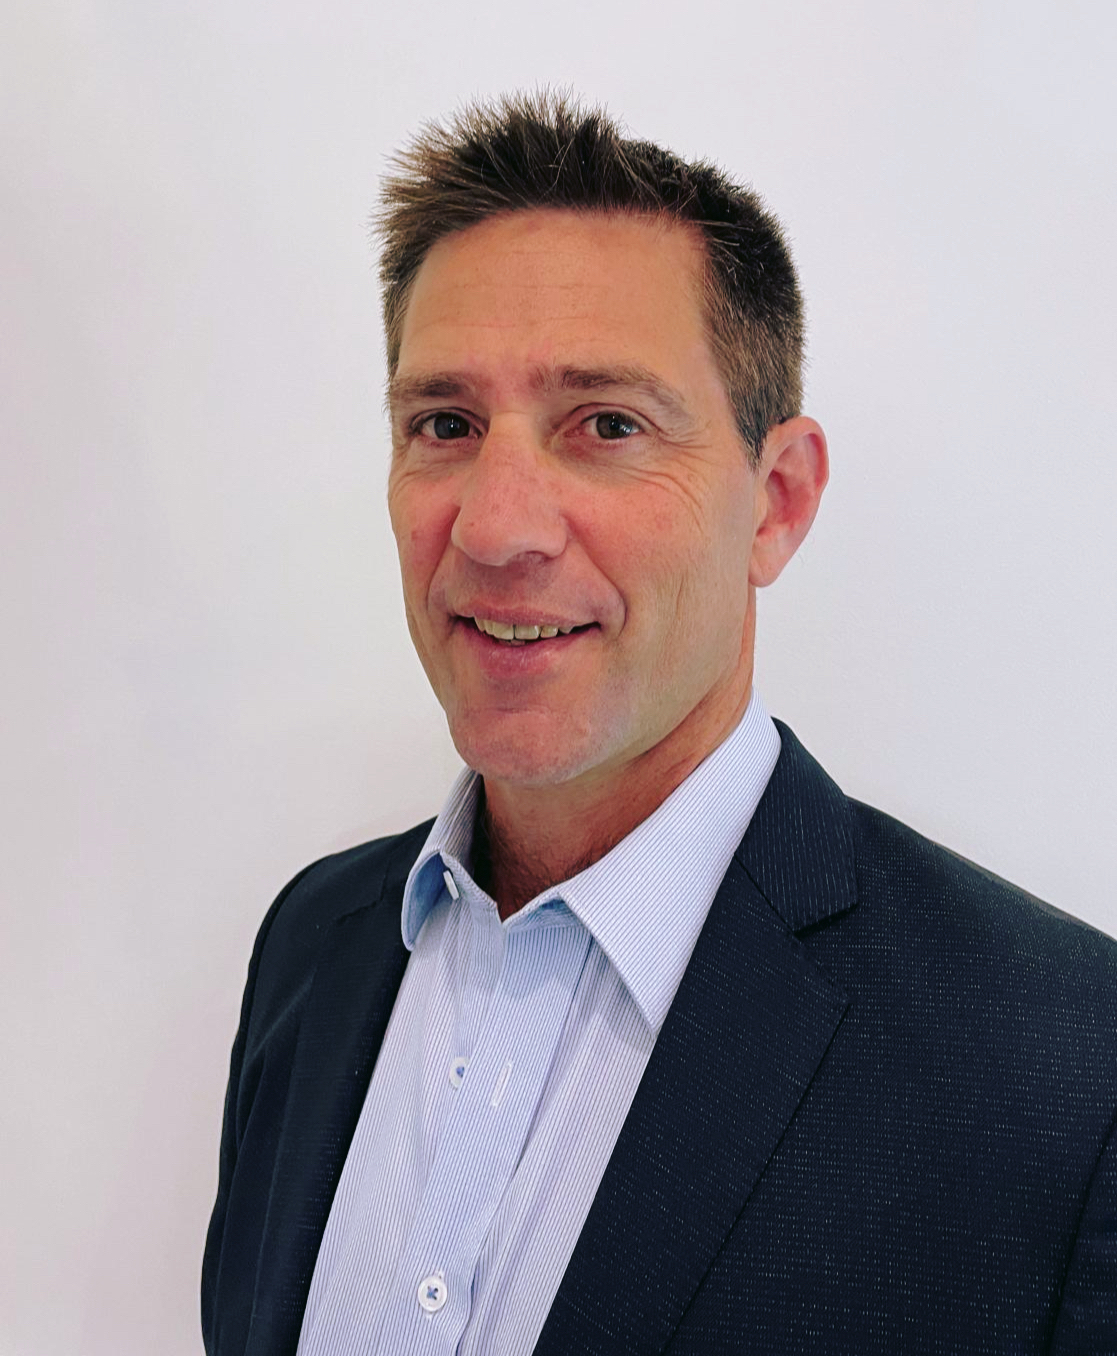
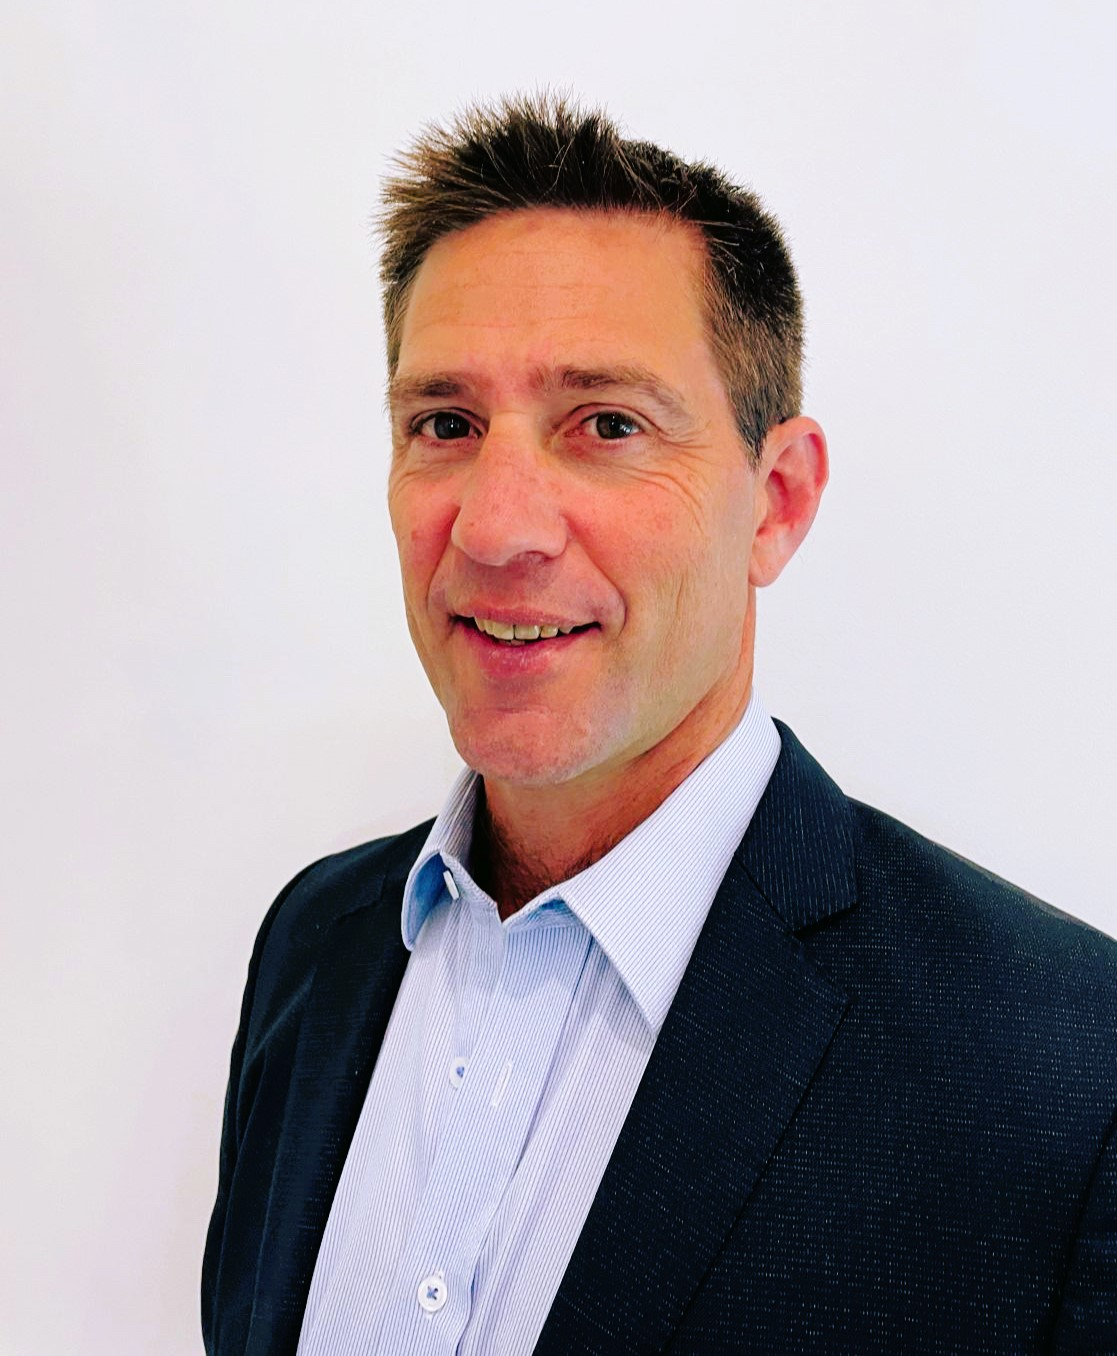
Changed Phillip's photo to a clearer one

diff --git a/oz-premium/src/app/investors/page.tsx b/oz-premium/src/app/investors/page.tsx
@@ -97,7 +97,7 @@ export default function Investors() {
 
                         <Box sx={{pt:1}}>
                             <Typography sx={{fontSize:'16px'}}>
-                                Oz Premium Finance Pty Ltd (ABN 55 666 232 319) is a Corporate Authorised Representative (Number -----) of Oz Premium Funds Management Pty Limited (ACN 674 379 330) under its AFSL (No. _ -). Oz Premium Nominees Pty Limited is the trustee of the Oz Premium Funding Trust and the investment management is provided by Oz Premium Finance Pty Ltd. An investment into the Trust is available to wholesale investors (as defined by section 761G of the Corporations Act) in Australia only. The information on this website is general in nature. It does not take into account your specific needs or circumstances, so you should look at your own financial position, objectives and requirements, read the Information Memorandum and seek financial, legal or tax advice appropriate to your situation before making any financial decisions. Please email investor@ozpremiumfinance.com.au or call 1300 570 407 to obtain a copy of the Information Memorandum.
+                                Oz Premium Finance Pty Ltd (ABN 55 666 232 319) is a Corporate Authorised Representative (No.1310538) of Oz Premium Funds Management Pty Limited (ACN 674 379 330) under its AFSL (No.55604). Oz Premium Nominees Pty Limited is the trustee of the Oz Premium Funding Trust and the investment management is provided by Oz Premium Finance Pty Ltd. An investment into the Trust is available to wholesale investors (as defined by section 761G of the Corporations Act) in Australia only. The information on this website is general in nature. It does not take into account your specific needs or circumstances, so you should look at your own financial position, objectives and requirements, read the Information Memorandum and seek financial, legal or tax advice appropriate to your situation before making any financial decisions. Please email investor@ozpremiumfinance.com.au or call 1300 570 407 to obtain a copy of the Information Memorandum.
                             </Typography>
                         </Box>
 

diff --git a/oz-premium/src/components/Why.tsx b/oz-premium/src/components/Why.tsx
@@ -5,7 +5,7 @@ import Link from "next/link";
 export default function Why() {
     return (
         <>
-        <Box id='why box' sx={{ width:'100%',bgcolor:'white', paddingY:{xs:6,md:8},paddingX:{xs:4,md:8}}}>
+        <Box id='why box' sx={{ width:'100%',bgcolor:'white', paddingY:{xs:8,md:12},paddingX:{xs:4,md:8}}}>
             <Container maxWidth='xl'>
                 <Box display='flex' sx={{gap:1}}>
                     <Box sx={{
@@ -29,14 +29,14 @@ export default function Why() {
                 position: 'absolute',
                 left: '50%',// Center the line horizontally to its parents
                 top: '60%', // Make line start from 70% of the parent's height
-                transform: 'translateX(-50%) translateY(-50%)', // First part moves the child element to the left by 50% of its own width, the second part moves it up by 50% of its own height
-                height: '50%', // Set the height of the line here
+                transform: 'translateX(-50%) translateY(-35%)', // First part moves the child element to the left by 50% of its own width, the second part moves it up by 50% of its own height
+                height: '60%', // Set the height of the line here
                 borderLeft: {xs:0, md:1},
                 borderTop: {xs:1, md:0},
                 borderColor: 'primary.main',
                 }} />
 
-                <Box sx={{ width: { xs: '100%', md: '50%' }, color: 'primary.main', pl: { md: 2 } }}>
+                <Box sx={{ width: { xs: '100%', md: '50%' }, color: 'primary.main', pl: { md: 3 } }}>
                 <Typography fontSize={'20px'}>
                     Essential for maintaining the uninterrupted protection businesses need to safeguard against risks and uncertainties inherent in their operations.
                 </Typography>

diff --git a/oz-premium/src/app/api/email/route.ts b/oz-premium/src/app/api/email/route.ts
@@ -1,0 +1,40 @@
+import { NextResponse } from "next/server";
+import nodemailer from "nodemailer";
+
+
+export async function POST(req: Request) {
+  const request = await req.json();
+
+  const transporter: nodemailer.Transporter = nodemailer.createTransport({
+    host: process.env.NEXT_PUBLIC_EMAIL_HOST,
+    port: 587,
+    secure: false,
+    auth: {
+      user: process.env.NEXT_PUBLIC_EMAIL_USER,
+      pass: process.env.NEXT_PUBLIC_EMAIL_PASS
+    }
+  });
+
+  const mailOptions: nodemailer.SendMailOptions = {
+    from: request.email, // sender address
+    to: process.env.NEXT_PUBLIC_EMAIL_SEND_TO, // list of receivers
+    subject: request.subject, // Subject line
+    text: request.message, // plain text body
+    html: `<div>${request.message}</div>` // html body
+  };
+
+  return await transporter
+    .sendMail(mailOptions)
+    .then((response: nodemailer.SentMessageInfo) => {
+      return NextResponse.json(
+        { error: false, emailSent: true, errors: [], response },
+        { status: 200 }
+      );
+    })
+    .catch((error: nodemailer.SentMessageInfo) => {
+      return NextResponse.json(
+        { error: true, emailSent: false, errors: [error] },
+        { status: 500 }
+      );
+    });
+}

diff --git a/oz-premium/src/app/about/team/[name]/page.tsx b/oz-premium/src/app/about/team/[name]/page.tsx
@@ -19,7 +19,7 @@ const members = [
     {
         name: "Philip Riquier",
         title: "Director",
-        image: "/bioPhotos/Philip.jpg",
+        image: "/bioPhotos/Philip.JPG",
         description:"Professional Finance Sector Non-Executive Director and Advisor. Philip was previously a group executive of Bendigo/Adelaide Bank Ltd, responsible for multiple banking divisions; Mergers and Acquisitions, Products Treasury, APRA relationship, Rating Agency relationship and major technology projects. Philip was also previously a Director of the Risk Management Association of Australia. Philip is currently a Non-Executive Director of Credit Union SA Ltd and Capital Prudential Pty. Ltd. (which also provides executive management services for an APRA regulated super fund). Philip's advisory clients include several Banks, Superannuation Funds, Private Health Insurers and listed gold EFT issuers."
     },
     {

diff --git a/oz-premium/src/components/Banner.tsx b/oz-premium/src/components/Banner.tsx
@@ -47,7 +47,7 @@ export default function Banner(){
 
   <Typography fontSize={18} fontWeight={400} textAlign={'center'} sx ={{fontSize:{xs:'32px',sm:'50px',md:'64px'}, lineHeight:{xs:1}}}>The Premium Way To Fund Your Insurance </Typography>
 
-  <Box sx={{pt: {xs:5, md: 4}}}>
+  <Box sx={{pt: {xs:5, md: 5}}}>
     <Link href={'/products'}>
       <LearnMore content="Learn More"/>
     </Link>

diff --git a/oz-premium/src/components/Investor.tsx b/oz-premium/src/components/Investor.tsx
@@ -8,7 +8,7 @@ export default function Investor() {
         <Box 
         sx={{
             paddingX:{xs:4,md:8},
-            paddingY:{xs:6,md:8}, 
+            paddingY:{xs:8,md:12}, 
             width:'100%'}}
             >
             <Container maxWidth='xl'>

diff --git a/oz-premium/src/app/about/team/page.tsx b/oz-premium/src/app/about/team/page.tsx
@@ -20,7 +20,7 @@ const members = [
     {
         name: "Philip Riquier",
         title: "Director",
-        image: "/bioPhotos/Philip.jpg",
+        image: "/bioPhotos/Philip.JPG",
         profile:"philip-riquier"
     },
     {
